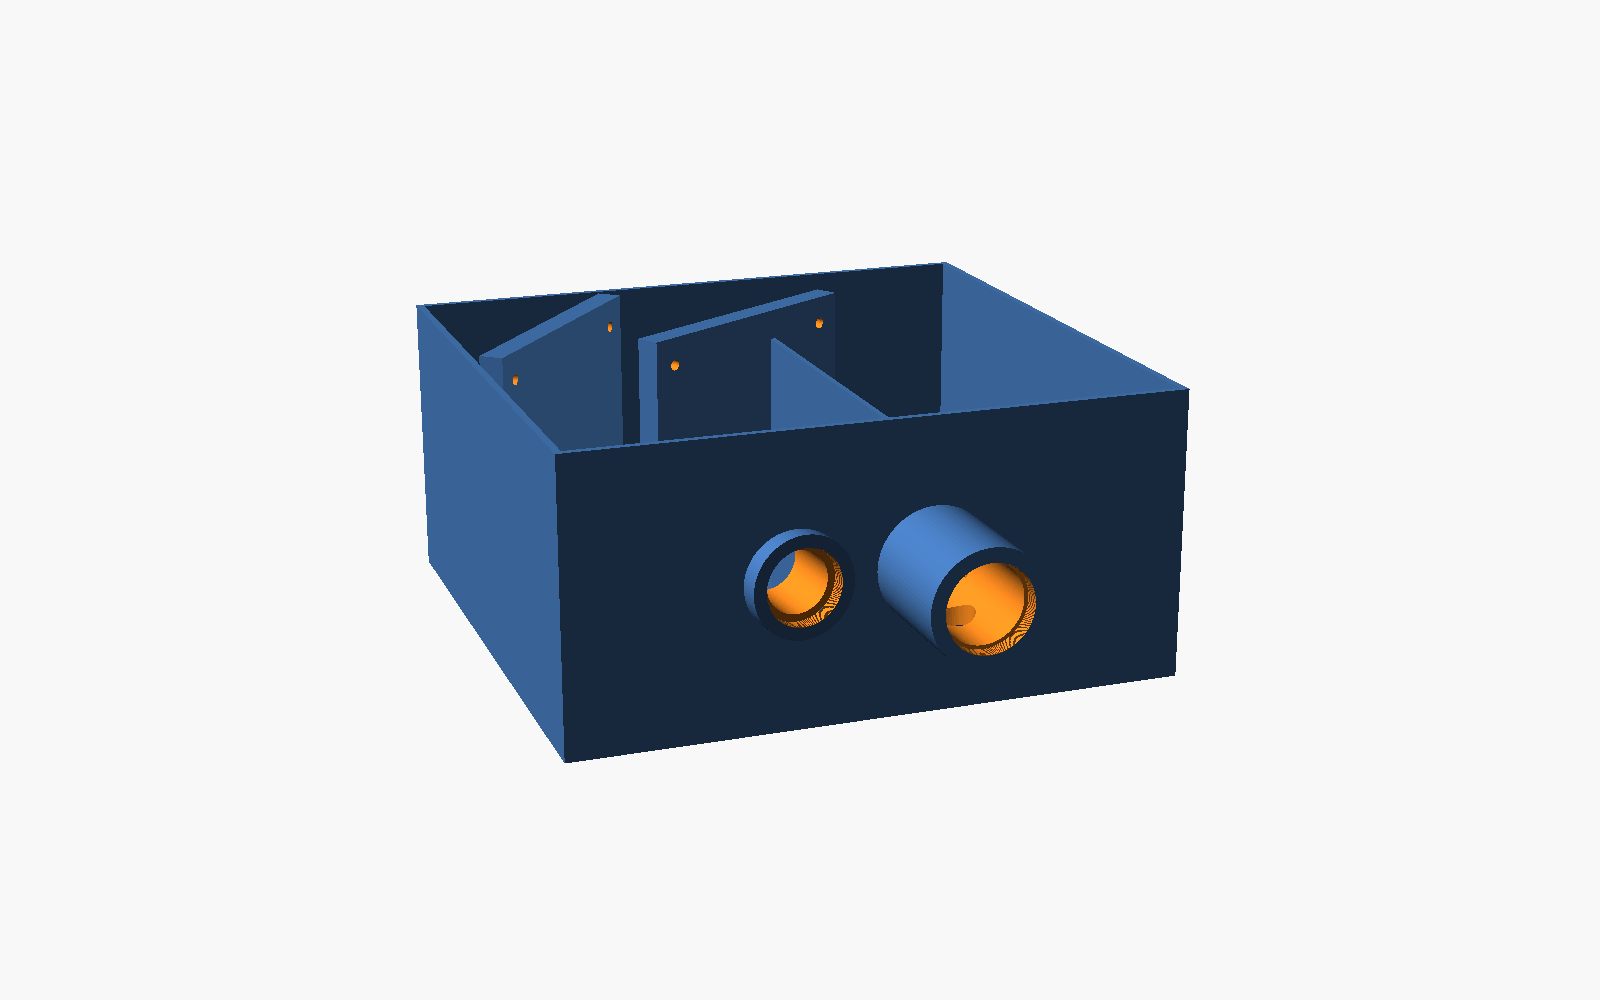
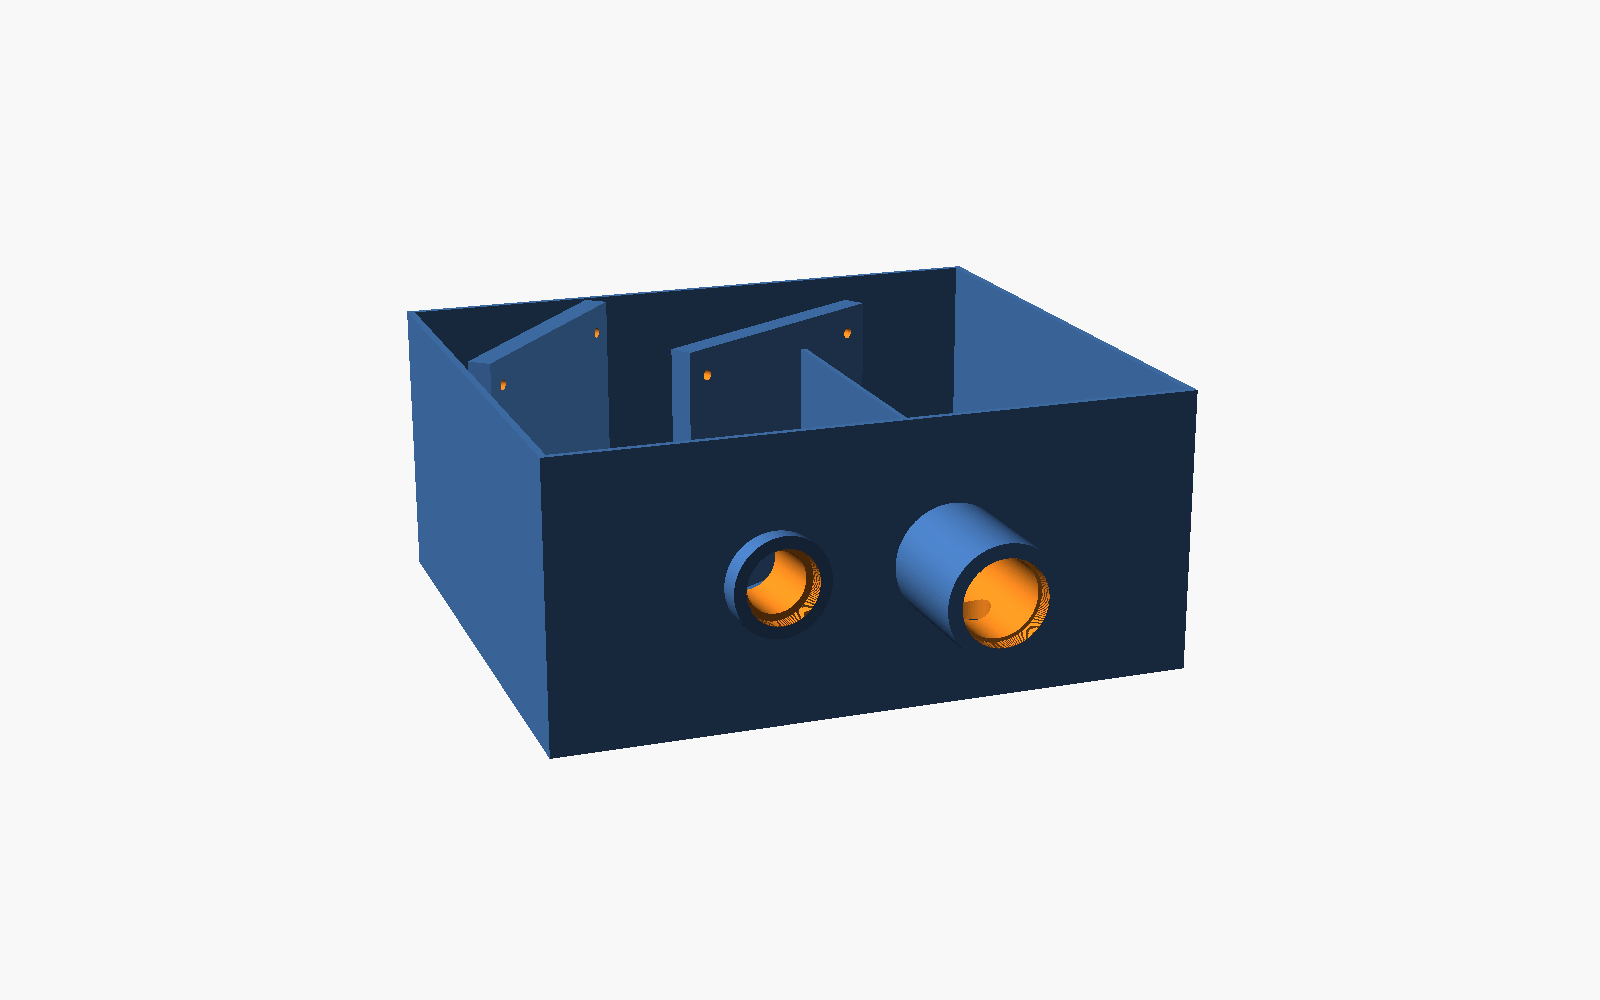
Camera clearance: Lc 200->230, camera axis 102mm from telescope axis
Cooled IMX571 bodies (Ø80-90) now clear the snout extension by 15-20mm
over a full-length stack; aberrations unchanged (Lc is collimated space).
Regenerated body_geom, layout/spots charts; docs note the Ø160 what-if.

diff --git a/design/raytrace.py b/design/raytrace.py
@@ -292,7 +292,7 @@ CONFIGS = {
 # Chosen buildable geometry (see RESULTS.md): config B, off-Littrow 20 deg,
 # opposite folds, grating arm sized for 40 mm return-beam clearance.
 CHOSEN = dict(config="B_edmund_30s-45", dev=20.0, s2=-1.0,
-              Lg=117.0, Lc=200.0)
+              Lg=117.0, Lc=230.0)
 
 LINES = [  # (label, lambda nm, lines/mm, order)
     ("CaK 393", 393.37, 2400.0, 1),

diff --git a/design/BODY.md b/design/BODY.md
@@ -30,6 +30,12 @@ raytrace.
   interface: PRINTED M42 x 0.75 (T2) female thread, 9 mm deep, at the
   exterior end. Sensor plane sits at the interior end of the tunnel —
   set back-focus with the helical focuser.
+- Camera clearance: camera axis sits 102 mm from the telescope axis
+  (set by Lc = 230 in CHOSEN). An Ø80 cooled IMX571 body (ToupTek ATR
+  class) clears the Ø64 snout extension by ~20 mm over a 110 mm stack;
+  Ø90 bodies clear by ~15 mm. If the camera were truly Ø160, Lc must
+  rise to ~270 and the body would need split-printing — confirm the
+  real body diameter before printing.
 - Printed-thread rules (both ports): 0.10-0.15 mm layers over the thread
   region, slow perimeters, no supports in the bore; chase gently with the
   mating metal part; if a print tears, bump camThreadClr by +0.1. The

diff --git a/design/RESULTS.md b/design/RESULTS.md
@@ -23,8 +23,9 @@ correction entries.
 
 Geometry (`CHOSEN` in raytrace.py): dev = +20 deg off-Littrow, camera fold
 OPPOSITE the collimator fold (s2 = -1), Lg = 117 mm (slit-side clearance:
-return beam passes ~38 mm from OAP1), Lc = 200 mm (sensor lands at
-z = -69, y = +79 mm — clear of the FSQ-85 drawtube). Magnification 2.18x:
+return beam passes ~38 mm from OAP1), Lc = 230 mm (sensor at z = -50,
+y = +102 mm: camera axis 102 mm from the telescope axis, clearing an
+Ø80 cooled IMX571 body beside the snout extension by ~20 mm). Magnification 2.18x:
 7 um slit -> 15.3 um spatial image (4.1 px on IMX571); disk image 9.2 mm
 (needs the IMX571-class sensor; IMX678 too small at this mag).
 
